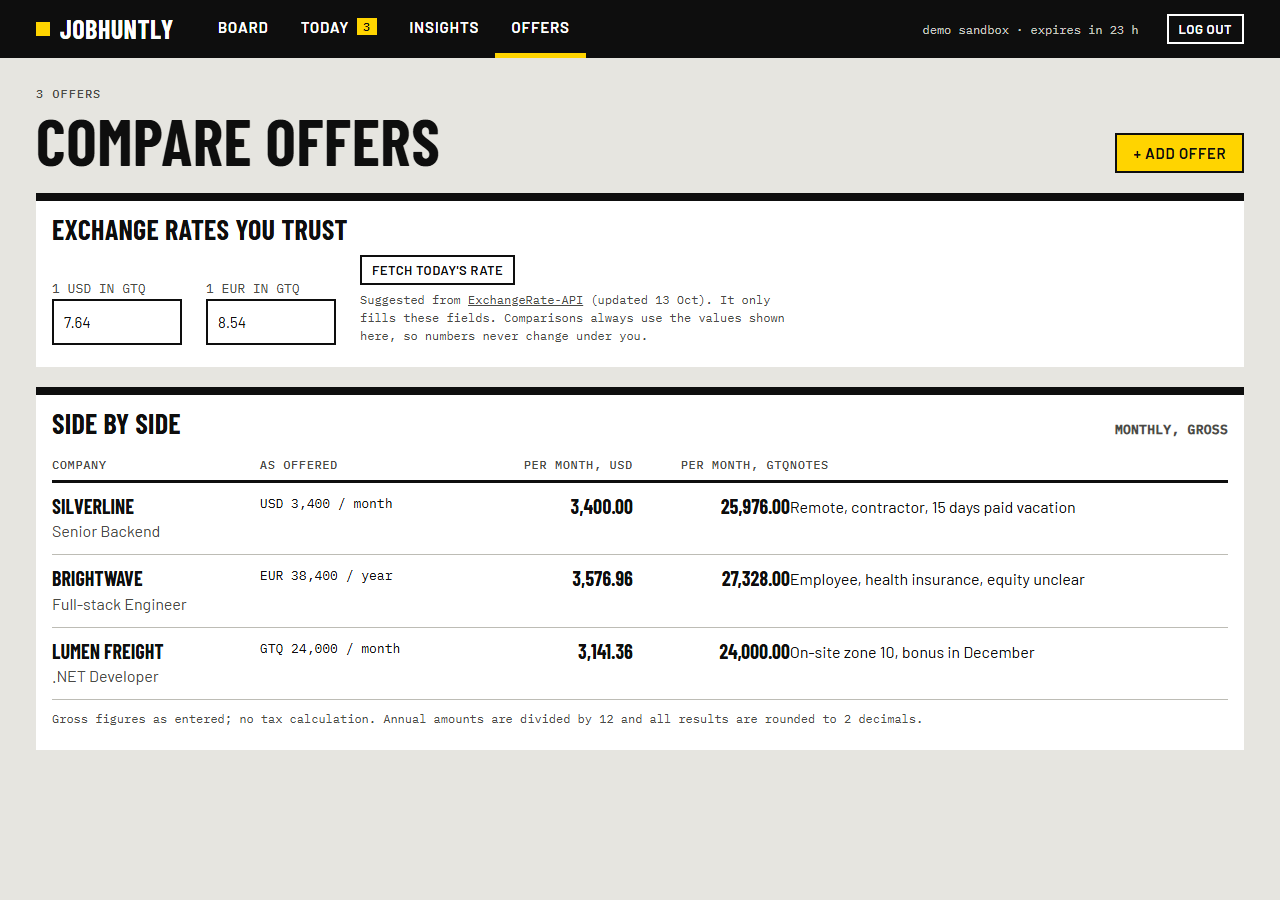
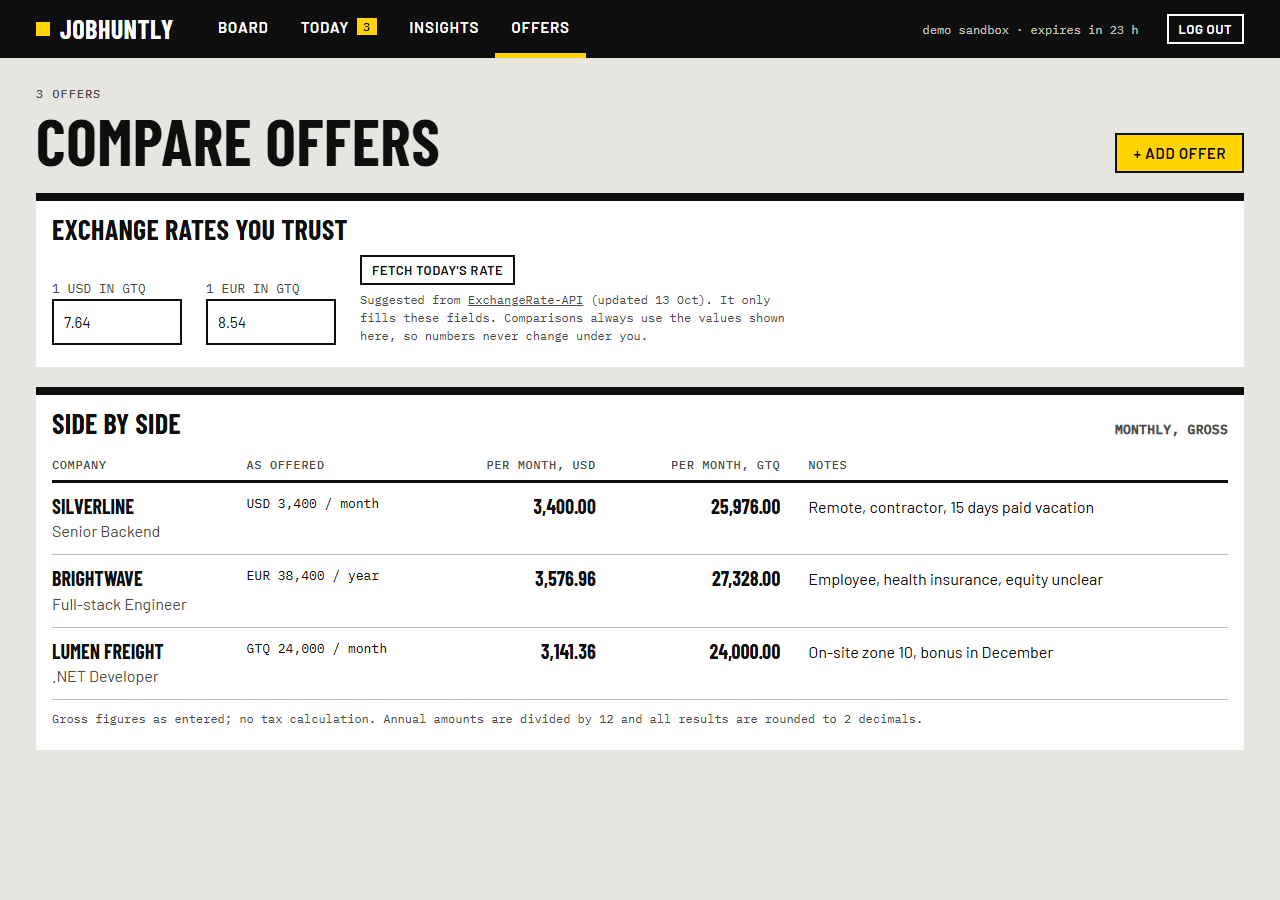
Mockups: spacing after numeric table columns

diff --git a/docs/mockups/wayfinding.css b/docs/mockups/wayfinding.css
@@ -160,3 +160,5 @@ td.num, th.num { text-align: right; font-family: var(--mono); font-variant-numer
   table { font-size: 14px; }
   .scroll { overflow-x: auto; }
 }
+
+td.num + td, th.num + th { padding-left: 28px; }
